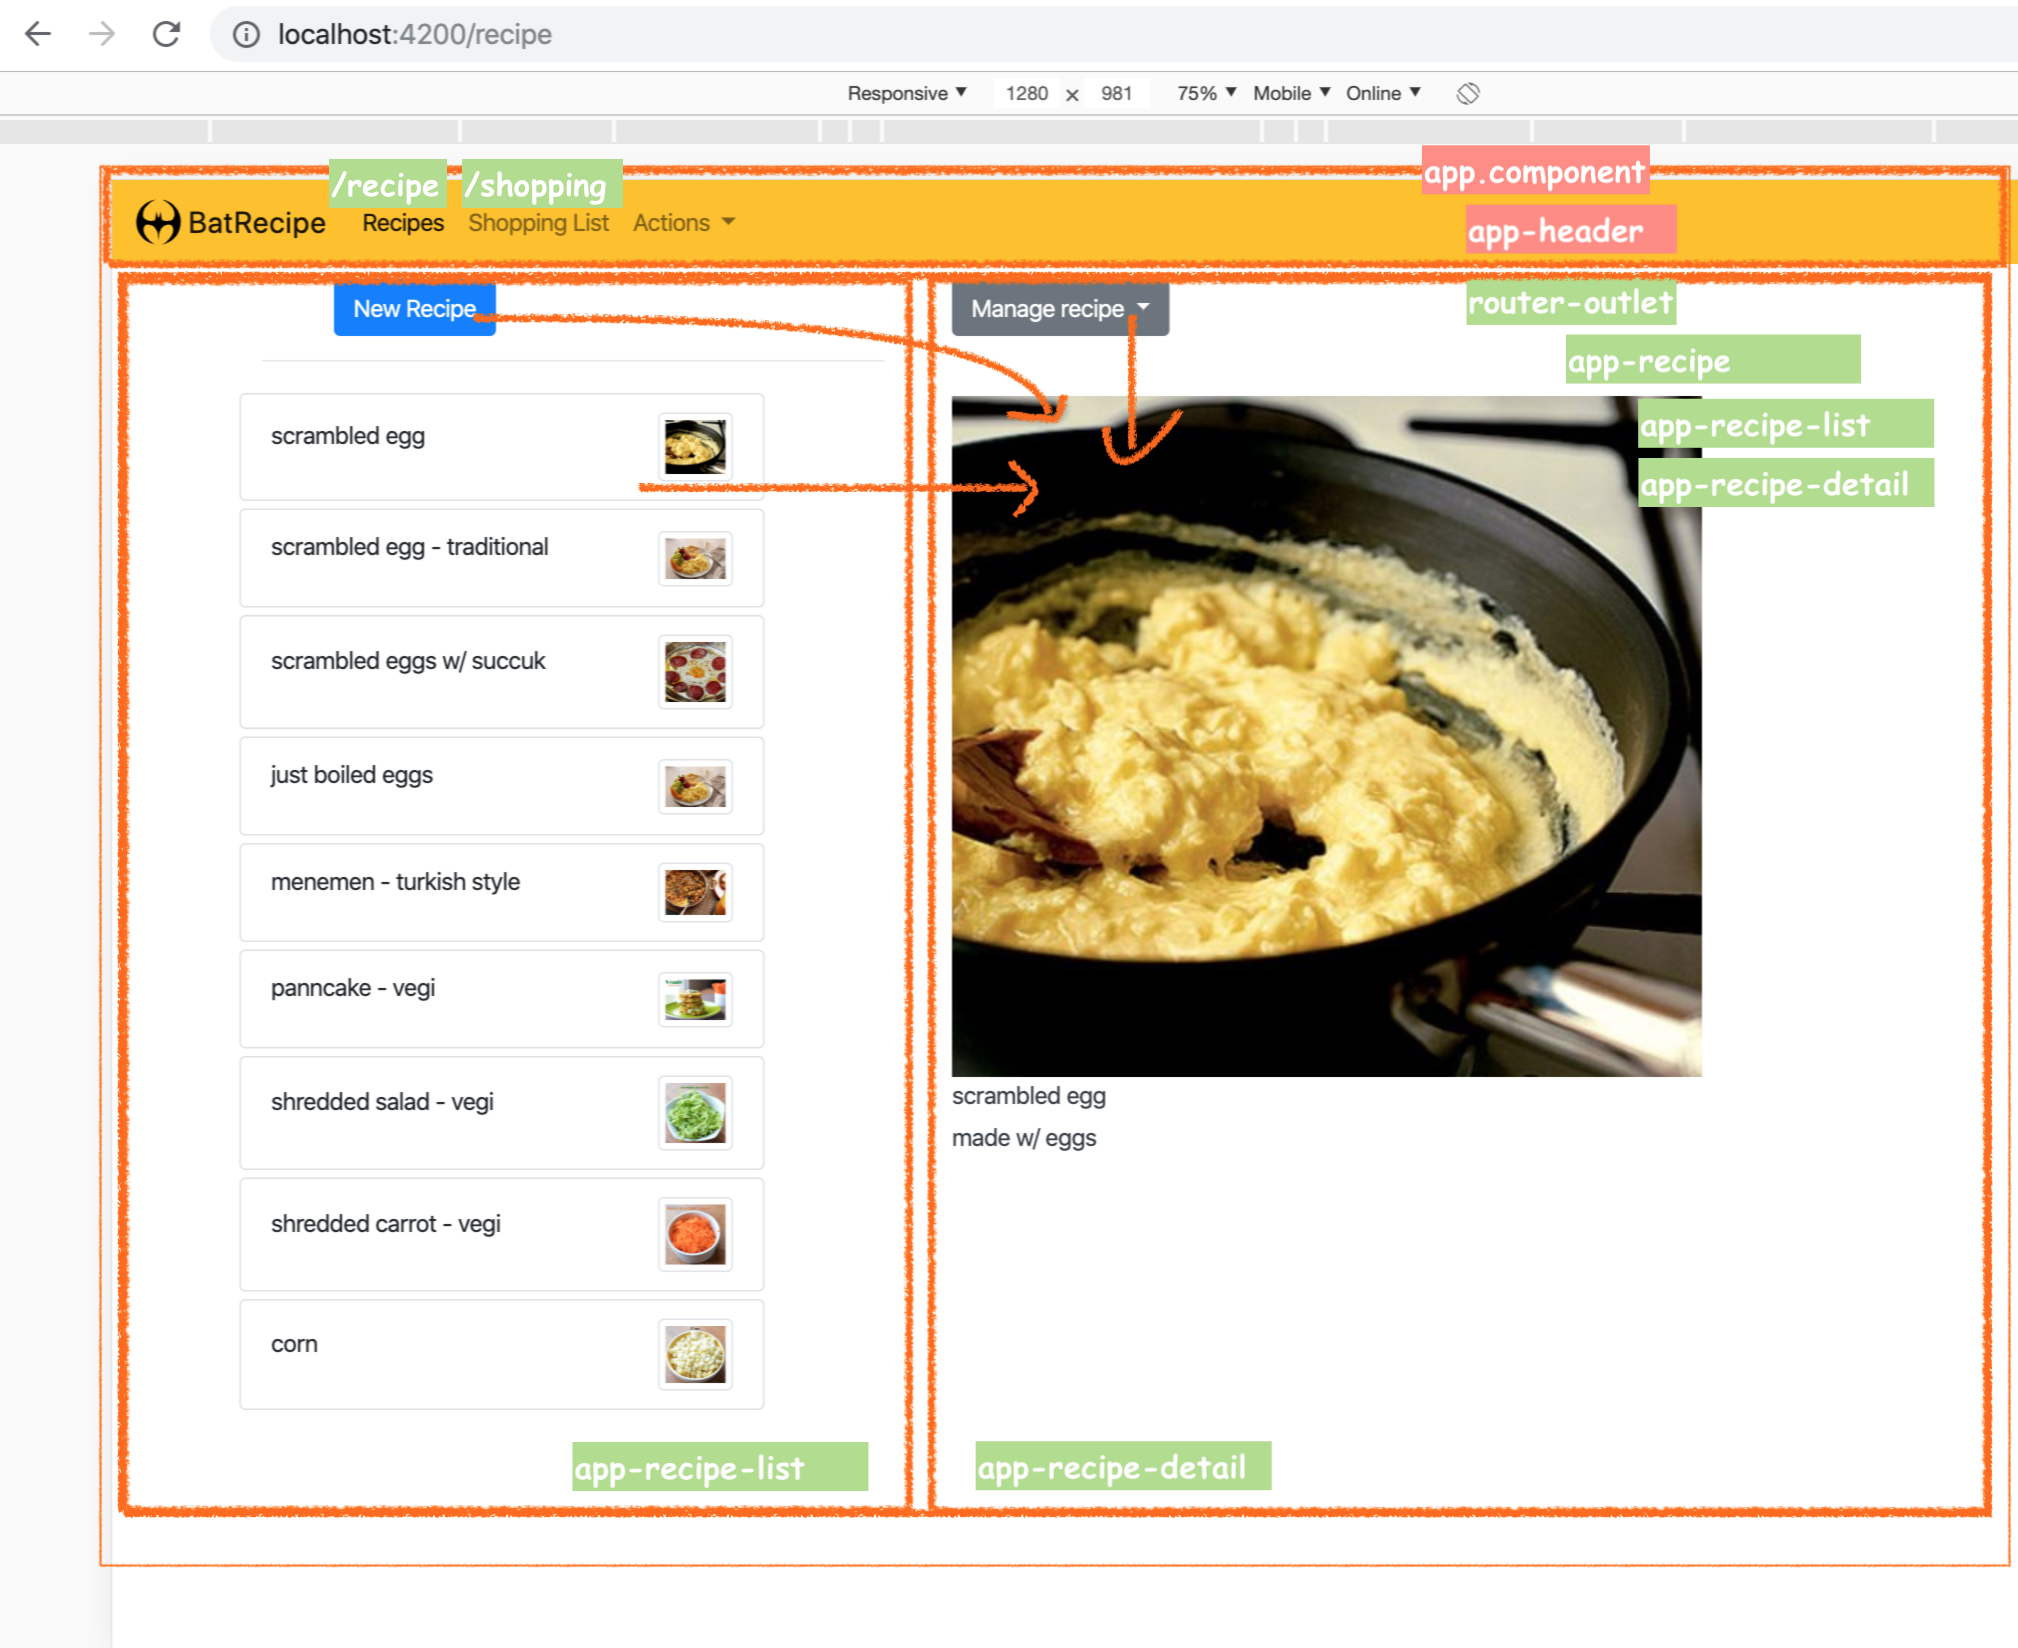
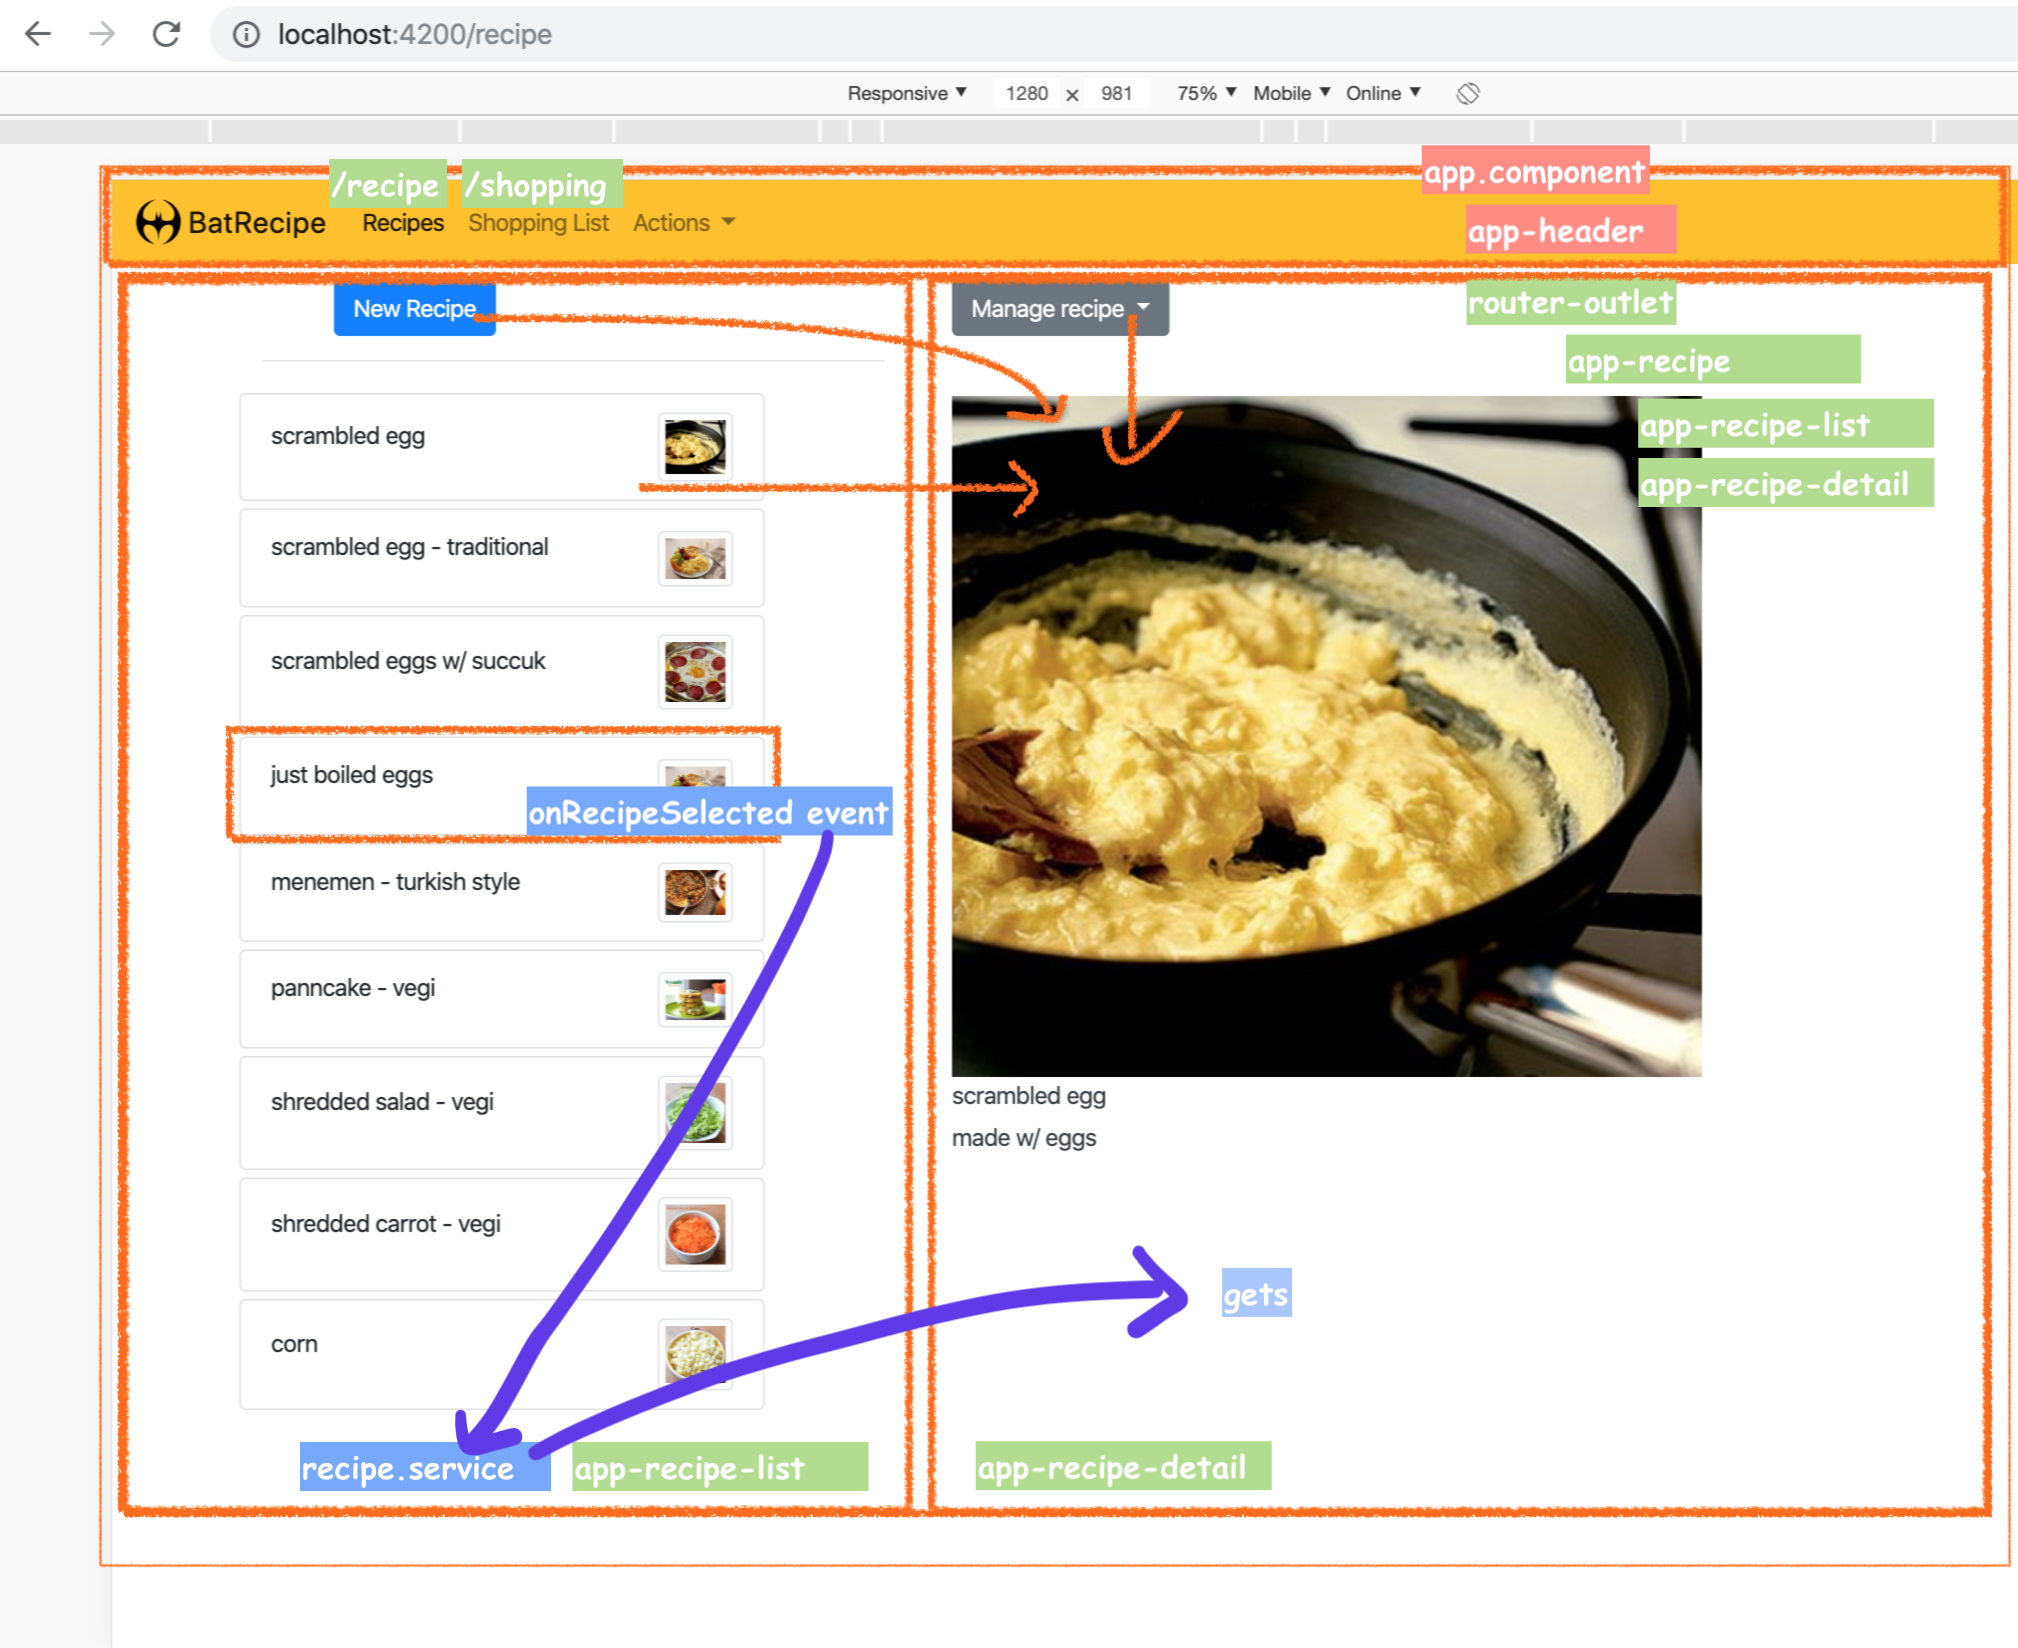
Initialize - recipe-app w/ child routing impl.

Changed region(s): [[0.0937, 0.4333, 0.4371, 0.6808], [0.1249, 0.6808, 0.4371, 0.9284], [0.4371, 0.7427, 0.6556, 0.8046]]

diff --git a/recipe-app/src/app/recipe/recipe-detail/recipe-detail.component.ts b/recipe-app/src/app/recipe/recipe-detail/recipe-detail.component.ts
@@ -1,4 +1,6 @@
 import {Component, Input, OnInit} from '@angular/core';
+import {ActivatedRoute, Params} from '@angular/router';
+
 import {Recipe} from '../recipe.model';
 import {RecipeService} from '../recipe.service';
 
@@ -8,11 +10,26 @@ import {RecipeService} from '../recipe.service';
   styleUrls: ['./recipe-detail.component.css']
 })
 export class RecipeDetailComponent implements OnInit {
-  @Input()
-  selectedRecipe: Recipe;
 
-  constructor(public rs: RecipeService) {
+  selectedRecipe: Recipe;
+  selectedId: number;
+
+  constructor(public rs: RecipeService,
+              public route: ActivatedRoute) {
+
+    // 1- at first load by router, then always cause we use route.navigate
+    this.route.params.subscribe((params: Params) => {
+      this.selectedId = params.id;
+
+      console.log(`loaded from router: ${this.selectedId}`);
+
+      this.selectedRecipe = this.rs.getRecipe(this.selectedId);
+    });
+
+    // 2- at first selection of recipe it is empty, then runs on selected a recipe
     rs.recipeSelected.subscribe((recipe) => {
+      console.log(`loaded from recipeSelected event: ${recipe.name}`);
+
       this.selectedRecipe = recipe;
     });
   }

diff --git a/recipe-app/src/app/recipe/recipe-list/recipe-list.component.ts b/recipe-app/src/app/recipe/recipe-list/recipe-list.component.ts
@@ -2,6 +2,7 @@ import {Component, EventEmitter, OnInit, Output} from '@angular/core';
 import { Recipe } from '../recipe.model';
 import {Ingredient} from '../../ingredient.model';
 import {RecipeService} from '../recipe.service';
+import {ActivatedRoute, Router} from '@angular/router';
 
 @Component({
   selector: 'app-recipe-list',
@@ -10,14 +11,23 @@ import {RecipeService} from '../recipe.service';
 })
 export class RecipeListComponent implements OnInit {
 
-  constructor(public rs: RecipeService) { }
+  constructor(public rs: RecipeService, public router: Router) { }
 
   ngOnInit() { }
 
+  /**
+   * Before Router => handling w/ events and getting selected recipe andt accessing it anywhere
+   * and After Router => esp. for child component routing, angular needs to route and we have to get values from router (via URL)
+   * So we add getRecipeId method in recipe.service.
+   *
+   * @param recipe Recipe
+   */
   onRecipeSelected(recipe: Recipe) {
       console.log(recipe);
+      console.log(`recipe id: ${this.rs.getRecipeId(recipe)}`);
 
       this.rs.recipeSelected.emit(recipe);
+      this.router.navigate([`/recipe/${this.rs.getRecipeId(recipe)}`]);
   }
 
 }

diff --git a/recipe-app/src/app/app-routing.module.ts b/recipe-app/src/app/app-routing.module.ts
@@ -4,9 +4,14 @@ import { RouterModule, Routes } from '@angular/router';
 import { PageNotFoundComponent } from './page-not-found/page-not-found.component';
 import { RecipeComponent } from './recipe/recipe.component';
 import { ShoppingComponent } from './shopping/shopping.component';
+import {EmptyRecipeComponent} from './recipe/empty-recipe/empty-recipe.component';
+import {RecipeDetailComponent} from './recipe/recipe-detail/recipe-detail.component';
 
 const appRoutes: Routes = [
-  { path: 'recipe', component: RecipeComponent },
+  { path: 'recipe', component: RecipeComponent, children: [
+      {path: '', component: EmptyRecipeComponent},
+      {path: ':id', component: RecipeDetailComponent}
+    ] },
   { path: 'shopping', component: ShoppingComponent },
   { path: '',   redirectTo: '/recipe', pathMatch: 'full' },  // at fist load
   { path: '**', component: PageNotFoundComponent }

diff --git a/recipe-app/src/app/app.module.ts b/recipe-app/src/app/app.module.ts
@@ -12,6 +12,8 @@ import { RecipeListComponent } from './recipe/recipe-list/recipe-list.component'
 import { RecipeDetailComponent } from './recipe/recipe-detail/recipe-detail.component';
 import { AppRoutingModule } from './app-routing.module';
 import { PageNotFoundComponent } from './page-not-found/page-not-found.component';
+import { EmptyRecipeComponent } from './recipe/empty-recipe/empty-recipe.component';
+import { RecipeEditComponent } from './recipe/recipe-edit/recipe-edit.component';
 
 @NgModule({
   declarations: [
@@ -22,7 +24,9 @@ import { PageNotFoundComponent } from './page-not-found/page-not-found.component
     RecipeComponent,
     RecipeListComponent,
     RecipeDetailComponent,
-    PageNotFoundComponent
+    PageNotFoundComponent,
+    EmptyRecipeComponent,
+    RecipeEditComponent
   ],
   imports: [
     BrowserModule,

diff --git a/recipe-app/src/app/recipe/recipe-edit/recipe-edit.component.spec.ts b/recipe-app/src/app/recipe/recipe-edit/recipe-edit.component.spec.ts
@@ -1,0 +1,25 @@
+import { async, ComponentFixture, TestBed } from '@angular/core/testing';
+
+import { RecipeEditComponent } from './recipe-edit.component';
+
+describe('RecipeEditComponent', () => {
+  let component: RecipeEditComponent;
+  let fixture: ComponentFixture<RecipeEditComponent>;
+
+  beforeEach(async(() => {
+    TestBed.configureTestingModule({
+      declarations: [ RecipeEditComponent ]
+    })
+    .compileComponents();
+  }));
+
+  beforeEach(() => {
+    fixture = TestBed.createComponent(RecipeEditComponent);
+    component = fixture.componentInstance;
+    fixture.detectChanges();
+  });
+
+  it('should create', () => {
+    expect(component).toBeTruthy();
+  });
+});

diff --git a/recipe-app/src/app/recipe/recipe-list/recipe-list.component.html b/recipe-app/src/app/recipe/recipe-list/recipe-list.component.html
@@ -14,7 +14,10 @@
         *ngFor="let recipe of rs.recipes">
       <li class="list-group-item d-flex justify-content-between align-items-center"
           style="margin-top: 5px"
-          (click)="onRecipeSelected(recipe)">
+          (click)="onRecipeSelected(recipe)"
+          routerLink="/recipe/{{this.rs.getRecipeId(recipe)}}"
+          routerLinkActive="active">
+
         <p class="mb-3">{{recipe.name}}</p>
         <img src="{{recipe.imagePath}}"
              alt="{{recipe.name}}"

diff --git a/recipe-app/src/app/recipe/recipe.service.ts b/recipe-app/src/app/recipe/recipe.service.ts
@@ -52,4 +52,19 @@ export class RecipeService {
   ];
 
   constructor() { }
+
+  /**
+   * gets Recipe by id
+   *
+   * @param id index++ number of recipes[]
+   */
+  getRecipe(id: number) {
+    return this.recipes[id--];
+  }
+
+  getRecipeId(recipe: Recipe) {
+    return this.recipes.findIndex((item) => {
+      return recipe.name === item.name;
+    });
+  }
 }

diff --git a/recipe-app/src/app/recipe/recipe-edit/recipe-edit.component.ts b/recipe-app/src/app/recipe/recipe-edit/recipe-edit.component.ts
@@ -1,0 +1,15 @@
+import { Component, OnInit } from '@angular/core';
+
+@Component({
+  selector: 'app-recipe-edit',
+  templateUrl: './recipe-edit.component.html',
+  styleUrls: ['./recipe-edit.component.css']
+})
+export class RecipeEditComponent implements OnInit {
+
+  constructor() { }
+
+  ngOnInit() {
+  }
+
+}

diff --git a/recipe-app/src/app/recipe/recipe.model.ts b/recipe-app/src/app/recipe/recipe.model.ts
@@ -2,6 +2,7 @@ import {Ingredient} from '../ingredient.model';
 
 export class Recipe {
 
+  // public name means -> creates this.name = name automatically!
   constructor(public name: string,
               public description: string,
               public imagePath: string,

diff --git a/recipe-app/src/app/recipe/recipe.component.html b/recipe-app/src/app/recipe/recipe.component.html
@@ -4,6 +4,6 @@
   </div>
 
   <div class="col-md-7 ml-30 mt-10">
-    <app-recipe-detail></app-recipe-detail>
+    <router-outlet></router-outlet>
   </div>
 </div>

diff --git a/recipe-app/src/app/recipe/recipe.component.ts b/recipe-app/src/app/recipe/recipe.component.ts
@@ -18,7 +18,5 @@ export class RecipeComponent implements OnInit {
 
   ngOnInit() { }
 
-  onRecipeSelected($event) {
-    this.selectedRecipe = $event;
-  }
+
 }

diff --git a/recipe-app/src/app/recipe/recipe-edit/recipe-edit.component.html b/recipe-app/src/app/recipe/recipe-edit/recipe-edit.component.html
@@ -1,0 +1,1 @@
+<p>recipe-edit works!</p>
